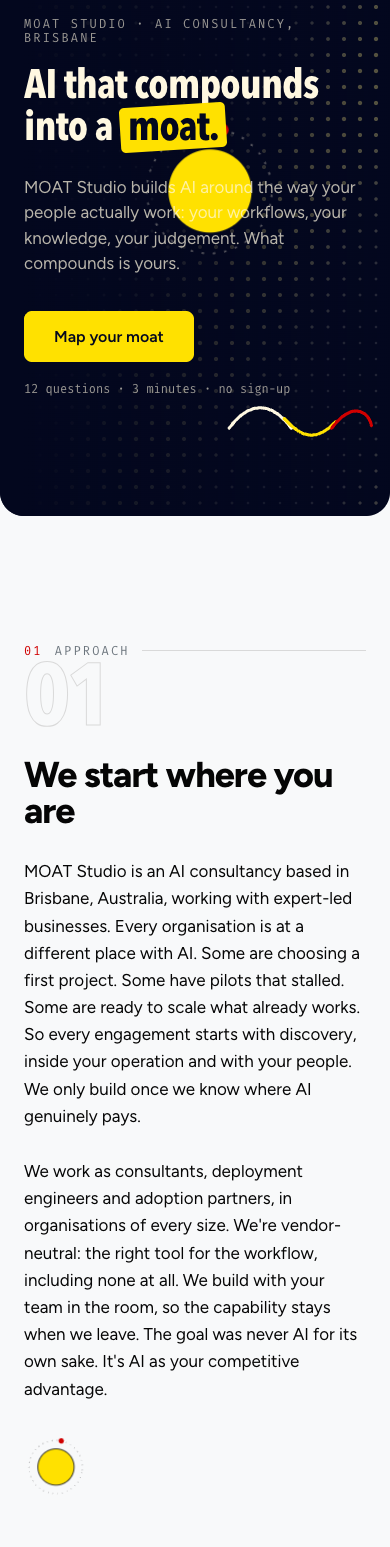
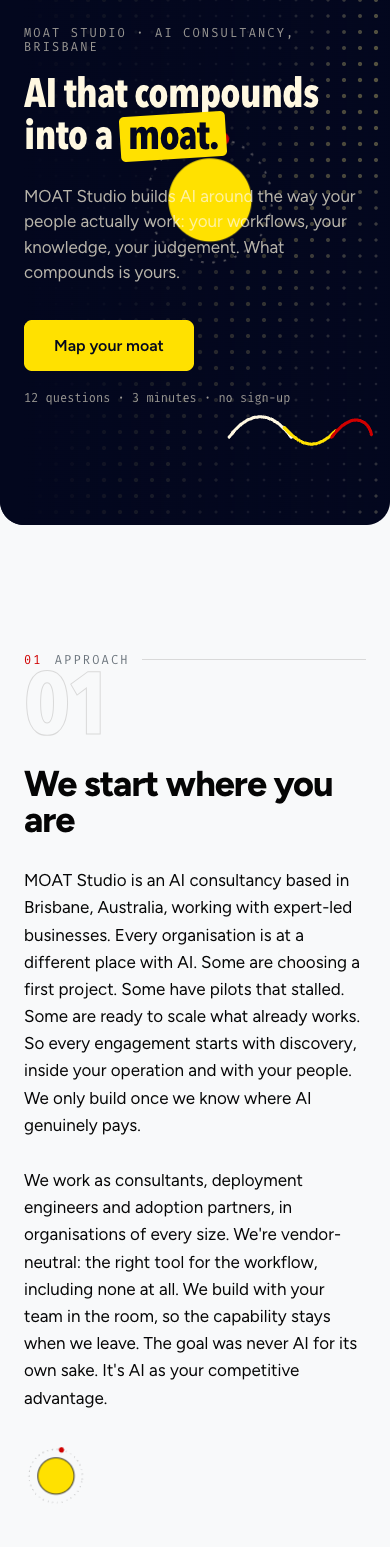
fix(PAR-182): alternating process-stage grid tracks + mounted non-overlap evidence
Resolve Alex exact-head review blocker: .process-stage declared
repeat(3, minmax(0,1fr)) auto auto against five alternating children
(card→arrow→card→arrow→card), so the arrows occupied the wide tracks
and the last card shrank into an auto track (Map=120, Build=200,
Loop=324). Tracks now alternate minmax(auto,1fr) auto x3, giving
card / arrow / card / arrow / card with comparable, non-overlapping
desktop cards. Capture script now measures card/arrow rects and
asserts meaningful widths, comparable widths, strictly
non-overlapping ordered bounds, and arrows inside their gaps;
fixture-only captures regenerated.

diff --git a/src/index.css b/src/index.css
@@ -307,7 +307,12 @@ button:hover { opacity: .85 }
   border-radius: var(--moat-radius-lg);
   padding: 64px 56px 72px;
   display: grid;
-  grid-template-columns: repeat(3, minmax(0, 1fr)) auto auto;
+  /* Five emitted children alternate card → arrow → card → arrow → card, so
+     the tracks must alternate too: each card takes a 1fr track (at least
+     its content width) and each arrow takes its own 44px auto track.
+     Plain `repeat(3, 1fr) auto auto` put the arrows in the wide tracks and
+     the last card in a shrinking auto track. */
+  grid-template-columns: minmax(auto, 1fr) auto minmax(auto, 1fr) auto minmax(auto, 1fr);
   align-items: stretch;
   column-gap: 40px;
   row-gap: 0;

diff --git a/evidence/PAR-182/README.md b/evidence/PAR-182/README.md
@@ -24,11 +24,11 @@ npm run build && node scripts/capture-par-182-evidence.mjs
 
 | File | Dimensions | Size | Hash |
 | --- | --- | --- | --- |
-| desktop-process-1440x900.png | 1440 x 900 | 75652 bytes | sha256:99d603a03b9d91b9… |
-| desktop-process-section-1440w.png | 1440 x 2087 | 537704 bytes | sha256:dfb53a4f2ebde1ac… |
-| narrow-process-390x844.png | 390 x 844 | 52466 bytes | sha256:e8f40abe5e8e8be9… |
-| narrow-process-section-390w.png | 390 x 1547 | 196673 bytes | sha256:a363eacf24564259… |
-| desktop-process-reduced-motion-1440x900.png | 1440 x 900 | 78414 bytes | sha256:695daa4c26e437d3… |
+| desktop-process-1440x900.png | 1440 x 900 | 101777 bytes | sha256:3b35305e0d9c511a… |
+| desktop-process-section-1440w.png | 1440 x 974 | 501752 bytes | sha256:c7aa9ed9bcc82a33… |
+| narrow-process-390x844.png | 390 x 844 | 50265 bytes | sha256:2add601a2a637db3… |
+| narrow-process-section-390w.png | 390 x 1547 | 197723 bytes | sha256:6db06a25d8f0f3d9… |
+| desktop-process-reduced-motion-1440x900.png | 1440 x 900 | 98700 bytes | sha256:55f9a5e3fc89995e… |
 
 ## Scenes
 
@@ -47,12 +47,13 @@ npm run build && node scripts/capture-par-182-evidence.mjs
 
 ## Assertion results (this run)
 
-- Desktop chapter: cards=[{"name":"Map","num":"01","left":120,"top":649},{"name":"Build","num":"02","left":200,"top":649},{"name":"Loop","num":"03","left":324,"top":649}]
+- Desktop chapter: cards=[{"name":"Map","num":"01","left":120,"right":437,"width":317,"top":635},{"name":"Build","num":"02","left":561,"right":879,"width":318,"top":635},{"name":"Loop","num":"03","left":1003,"right":1320,"width":317,"top":635}]
+- Desktop arrows (gap placement): [{"left":477,"right":521},{"left":919,"right":963}]
 - Stage ground: rgb(3, 7, 30) vs body rgb(248, 249, 250)
-- Narrow chapter: cards=[{"name":"Map","num":"01","top":573,"inViewport":true},{"name":"Build","num":"02","top":1008,"inViewport":true},{"name":"Loop","num":"03","top":1417,"inViewport":true}]
+- Narrow chapter: cards=[{"name":"Map","num":"01","top":574,"inViewport":true},{"name":"Build","num":"02","top":1009,"inViewport":true},{"name":"Loop","num":"03","top":1418,"inViewport":true}]
 - Desktop no page-level horizontal overflow: 1440 <= 1440
 - Narrow no page-level horizontal overflow: 390 <= 390
 - Reduced motion: {"reducedMedia":true,"cardCount":3,"allCardsVisible":true,"numbersVisible":true,"arrowsRendered":true,"noAnimatedConnectorParts":true}
 - Promises/meta intact: true / true
 
-Total: 30 passed, 0 failed.
+Total: 34 passed, 0 failed.
